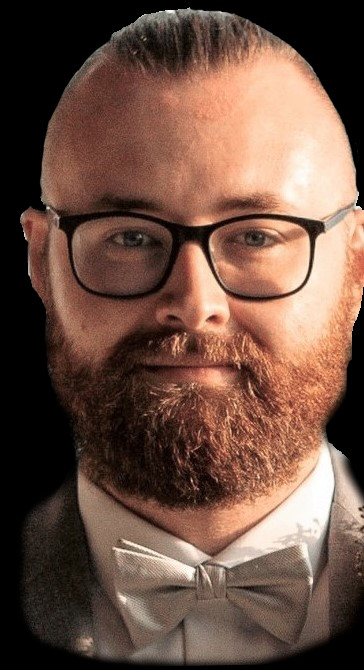
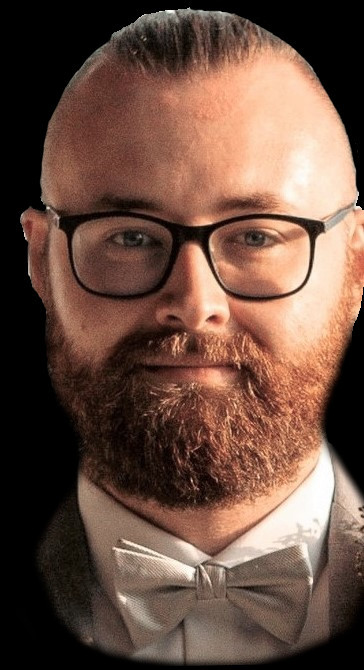
styled main hero block

Changed region(s): [[0.0604, 0.6567, 0.3929, 1.0], [0.8462, 0.4776, 0.967, 0.7164]]

diff --git a/assets/stylesheets/stylesheet.css b/assets/stylesheets/stylesheet.css
@@ -6,101 +6,39 @@
     color: white;
 }
 
-body{
-    background-color: black;
-    font-family:  Tahoma, sans-serif;
-}
+/* Main hero content code */
 
 
-/* PUT SECTION CONTAINER AROUND MAIN CONTENT NAME - MAIN CONTENT */
-.main-body{
-    display: flex;
-    flex-direction: column;
-    border: 10px solid green;
-}
-header{
-    display: flex;
-    background-image: linear-gradient(to right, rgba(0, 0, 0, 0.3), rgba(161, 161, 161, 0.3));
-    padding: 10px 35px;
-    justify-content: space-between;
-    flex-wrap: wrap;
-    position: -webkit-sticky;
-    position: sticky;
-    top: 0;
-    z-index: 9999;
-}
-
-header h1{
-    flex: 0 0 30%;
-}
-
-header nav{
-    flex: 0 0 70%;
-}
-header nav ul{
-    display: flex;
-    flex-wrap: wrap;
-    justify-content: space-between;
-    align-items: center;
-    list-style: none;
-    font-size: 26px;
-    padding-top: 3px;
-   
-}
-
-header a{
-    text-decoration: none;
-}
-
-/* Main Section / About me */
-
+/*sets hero section to flex and background color */
 .hero-section{
-    flex: 1 0 ;
+    background-color: black;
     display: flex;
-    border: 5px solid pink;
+    justify-content: center;
+    flex-wrap: wrap;
+    align-items: center;
 }
-.hero-content{
-    flex: 0 0 70%;
+/* Ajust Image Size and Margin */
+.hero-section img{
+    width: 55%;
+    margin: 35% 0;
 }
-
+/*Adjust Hero h2 size and margin */
 .hero-content h2{
-    font-size: 58px;
+    font-size: 450%;
+    margin-bottom: 2%;
 }
-
+/*Creates underline under main h2 */
+.hero-content h2::after{
+    content: "";
+    display: block;
+    border: .5px solid white;
+    margin: 0 8%;
+    opacity: .3;
+}
+/*main content paragraph */
 .hero-content p{
     font-size: 28px;
+    margin-left: 100px;
 }
 
-.content-div-test{
-    display: flex;
-    margin-top: 25%;
-    border: 4px solid red;
-    flex-direction: column;
-    justify-content: center;
-    align-items: center;
-}
-
-.my-image{
-   display: flex;
-   justify-content: left;
-   align-items: center;
-    
-
-    flex: 0 0 30%;
-    
-    
-}
-
-.my-image img{
-    height: 55%;
-    
-}
-
-.my-projects{
-    flex: 4 0;
-}
-
-.my-projects img{
-    height: 5%;
-    width: 5%;
-}
+/* end of main content code*/

diff --git a/index.html b/index.html
@@ -7,30 +7,37 @@
     <link rel="stylesheet" href="assets/stylesheets/stylesheet.css">
     <title>Scott's Portfolio</title>
 </head>
-<header>
-    <!-- Main Header -->
-        <h1>Scott's Portfolio</h1>
-    <!-- Nav Bar -->
-        <nav>
-            <ul>
-                <li><a href="">My Work</a></li>
-                <li><a href="">About Me</a></li>
-                <li><a href="">Place Holder</a></li>
-                <li><a href="">Contact Me</a></li>
-            </ul>
-      
-    </div>
-</header>
 <!-- Main Body -->
-<body class="main-body">
+<body>
+    <!-- Nav bar / main header code-->
+    <header>
+        <!-- Main Header -->
+            <h1>Scott's Portfolio</h1>
+        <!-- Nav Bar -->
+            <nav>
+                <ul>
+                    <li><a href="">My Work</a></li>
+                    <li><a href="">About Me</a></li>
+                    <li><a href="">Place Holder</a></li>
+                    <li><a href="">Contact Me</a></li>
+                </ul>
+          
+        </div>
+    </header>
+    <!-- End of Nav bar / header-->
+
     <!-- Jumbotron/hero-->
     <section class="hero-section">
+
+        
         <div class="hero-content">
-            <div class ="content-div-test">
+            
             <h2>Welcome to my Portfolio</h2>
             <p>Full Stack Web Developer located in Austin Texas.</p>
             </div>
         </div>
+
+
         <div class="my-image">
             <img src="../my-portfolio/assets/images/IMG_2072.jpg" alt="a photo of me in dress clothes">
         </div>
@@ -51,6 +58,6 @@
 
     </section>
 
-    
+  
 </body>
 </html>
